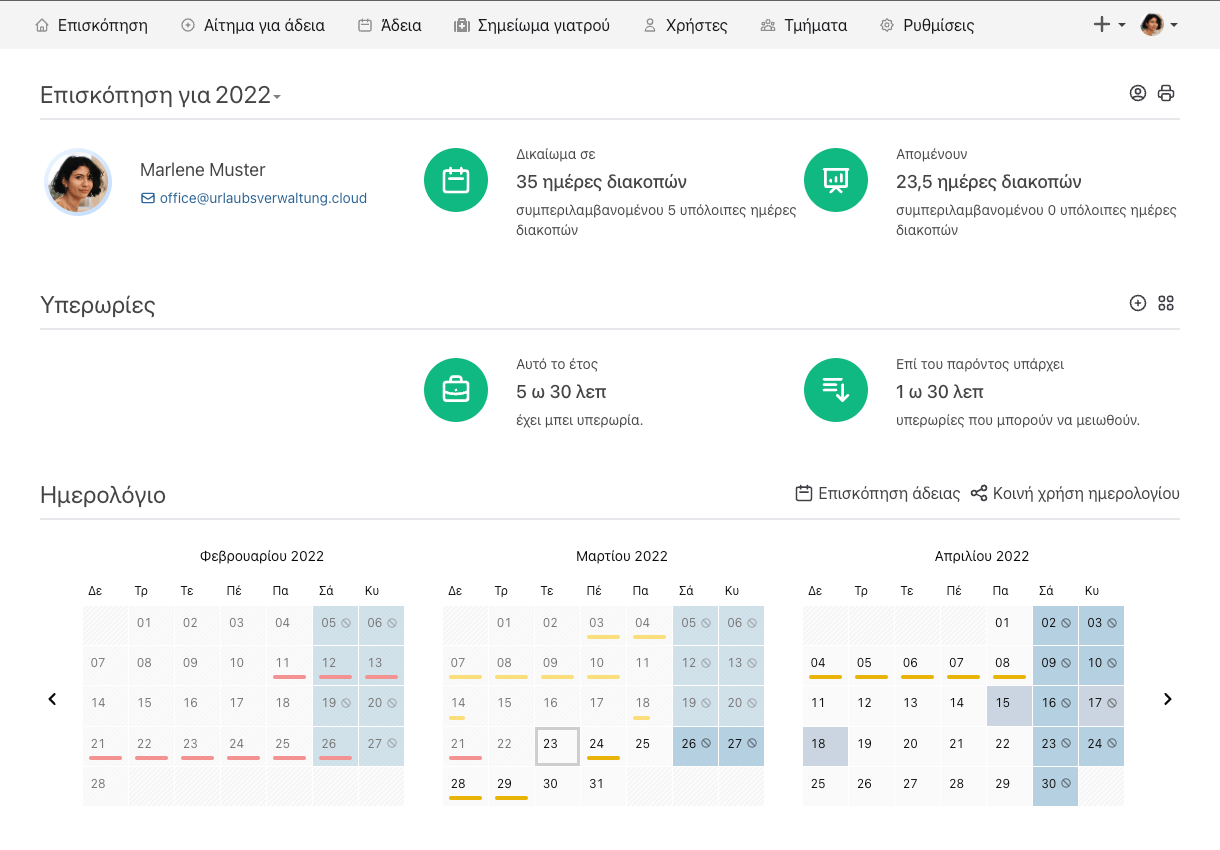
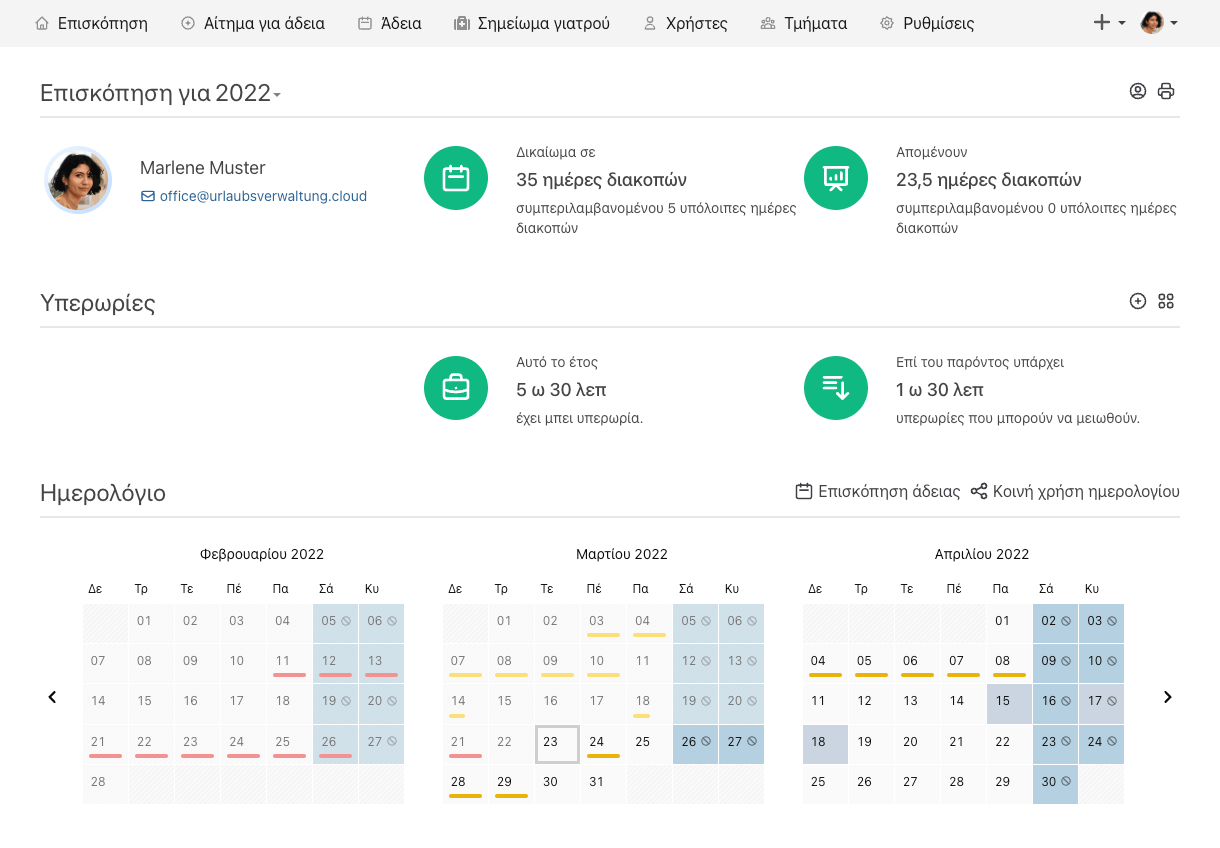
fixup! fix greek images

diff --git a/src/neuigkeiten/2022-03-25-release/index.md b/src/neuigkeiten/2022-03-25-release/index.md
@@ -14,11 +14,11 @@ Die Urlaubsverwaltung nun auch in Griechenland!
 
 ### Griechische Feiertage & Übersetzung
 
-Wir freuen uns sehr darüber, dass Nikos Zagkanas auf uns zukam, um für uns die Urlaubsverwaltung in Griechenland einsetzbar zu machen!
+Wir freuen uns sehr darüber, dass Nikos Zagkanas auf uns zukam und die Urlaubsverwaltung für Griechenland einsetzbar gemacht hat!
 
-Die Urlaubsverwaltung verfügt nun über eine vollständige griechische Übersetzung, welche durch die Browsersprache gesteuert wird, sowie
-über die griechischen Feiertage. Dies war eine sehr angenehme Kooperation und wir freuen uns sehr darüber auch in Griechenland einen Mehrwert
-bei der Abwesenheitsplanung beisteuern zu können.
+Die Urlaubsverwaltung verfügt nun über eine vollständige griechische Übersetzung, welche durch die Browsersprache gesteuert wird. Des Weiteren wurden auch griechische Feiertage integriert.
+
+Wir empfanden die Kooperation als sehr angenehm und wir freuen uns darüber, auch in Griechenland einen Mehrwert bei der Abwesenheitsplanung beisteuern zu können.
 
 <picture>
     <source srcset="greek.avif" type="image/avif" />
